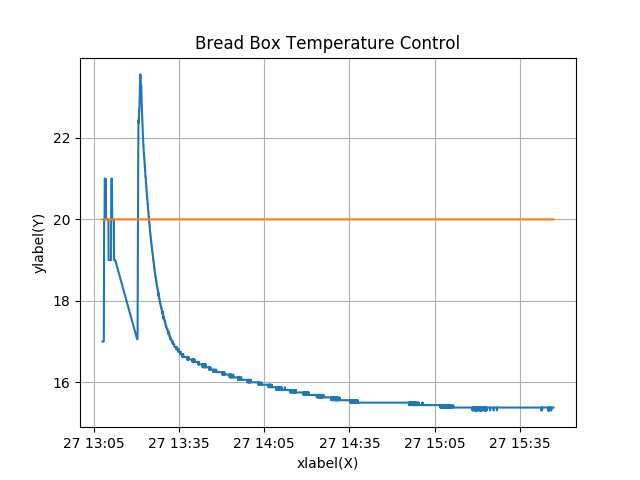
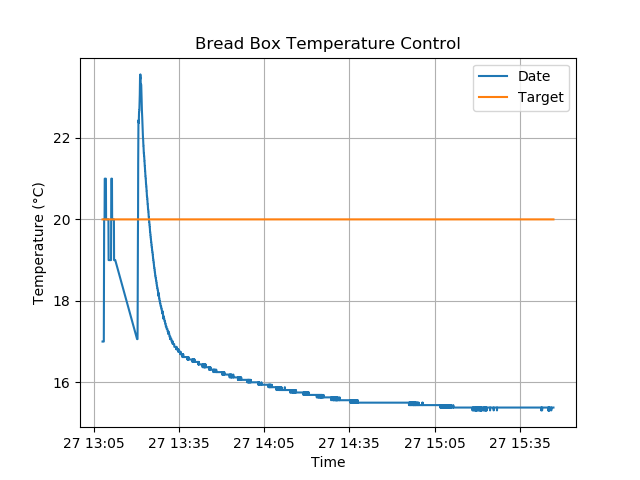
Making site prettier with some css

diff --git a/home/templates/home/index.html b/home/templates/home/index.html
@@ -1,22 +1,37 @@
+{% load staticfiles %}
 <!DOCTYPE html>
 <html lang="en">
-<head>
-    <meta charset="UTF-8">
-    <title>Breadsite</title>
-</head>
-<body>
-<heading>Breadsite</heading>
-{% load static %}
-<img src="{% static "home/graph.png" %}" alt="My image"/>
-<p>Recent blogs:</p>
-{% if latest_blogs_list %}
-    <ul>
-    {% for blog in latest_blogs_list %}
-        <li><a href="/blogs/{{ blog.id }}/">{{ blog.title }}</a></li>
-    {% endfor %}
-    </ul>
-{% else %}
-    <p>No blogs are available.</p>
-{% endif %}
-</body>
+    <head>
+        <title>Breadsite</title>
+        <link rel="stylesheet" href="//maxcdn.bootstrapcdn.com/bootstrap/3.2.0/css/bootstrap.min.css">
+        <link rel="stylesheet" href="//maxcdn.bootstrapcdn.com/bootstrap/3.2.0/css/bootstrap-theme.min.css">
+        <link href="//fonts.googleapis.com/css?family=Lobster&subset=latin,latin-ext" rel="stylesheet" type="text/css">
+        <link rel="stylesheet" href="{% static 'css/home.css' %}">
+        <meta charset="UTF-8">
+    </head>
+    <body>
+        <div class="page-header">
+            <h1><a href="/home/">Breadsite</a></h1>
+        </div>
+        <div class="content container">
+            {% load static %}
+            <img src="{% static "home/graph.png" %}" alt="My image"/>
+            <div class="row">
+                <div class="col-md-8">
+                    <div class="post">
+                        <h1>Recent blogs:</h1>
+                        {% if latest_blogs_list %}
+                            <ul>
+                            {% for blog in latest_blogs_list %}
+                                <li><a href="/blogs/{{ blog.id }}/">{{ blog.title }}</a></li>
+                            {% endfor %}
+                            </ul>
+                        {% else %}
+                            <p>No blogs are available.</p>
+                        {% endif %}
+                    </div>
+                </div>
+            </div>
+        </div>
+    </body>
 </html>

diff --git a/blogs/templates/blogs/detail.html b/blogs/templates/blogs/detail.html
@@ -1,16 +1,32 @@
+{% load staticfiles %}
 <!DOCTYPE html>
 <html lang="en">
-<head>
-    <meta charset="UTF-8">
-    <title>Breadsite</title>
-</head>
-<body>
-<heading><a href="/home/">Blog Home</a></heading>
-{% if blog %}
-    <p>{{ blog.content }}</p>
-    <p>{{ blog.author }}</p>
-{% else %}
-    <p>No blogs are available.</p>
-{% endif %}
-</body>
+    <head>
+        <title>Breadsite</title>
+        <link rel="stylesheet" href="//maxcdn.bootstrapcdn.com/bootstrap/3.2.0/css/bootstrap.min.css">
+        <link rel="stylesheet" href="//maxcdn.bootstrapcdn.com/bootstrap/3.2.0/css/bootstrap-theme.min.css">
+        <link href="//fonts.googleapis.com/css?family=Lobster&subset=latin,latin-ext" rel="stylesheet" type="text/css">
+        <link rel="stylesheet" href="{% static 'css/blogs.css' %}">
+        <meta charset="UTF-8">
+    </head>
+    <body>
+        <div class="page-header">
+            <h1><a href="/home/">Breadsite</a></h1>
+        </div>
+        <div class="content container">
+            <div class="row">
+                <div class="col-md-8">
+                    <div class="post">
+                        {% if blog %}
+                            <h1>{{ blog.title }}</h1>
+                            <p>Author: {{ blog.author }}</p>
+                            <p>{{ blog.content }}</p>
+                        {% else %}
+                            <p>No blogs are available.</p>
+                        {% endif %}
+                    </div>
+                </div>
+            </div>
+        </div>
+    </body>
 </html>

diff --git a/blogs/static/css/blogs.css b/blogs/static/css/blogs.css
@@ -1,0 +1,50 @@
+.page-header {
+    background-color: #ff9400;
+    margin-top: 0;
+    padding: 20px 20px 20px 40px;
+}
+
+.page-header h1, .page-header h1 a, .page-header h1 a:visited, .page-header h1 a:active {
+    color: #ffffff;
+    font-size: 36pt;
+    text-decoration: none;
+}
+
+.content {
+    margin-left: 40px;
+}
+
+h1, h2, h3, h4 {
+    font-family: 'Lobster', cursive;
+}
+
+.date {
+    color: #828282;
+}
+
+.save {
+    float: right;
+}
+
+.post-form textarea, .post-form input {
+    width: 100%;
+}
+
+.top-menu, .top-menu:hover, .top-menu:visited {
+    color: #ffffff;
+    float: right;
+    font-size: 26pt;
+    margin-right: 20px;
+}
+
+.post {
+    margin-bottom: 70px;
+}
+
+.post h1 a, .post h1 a:visited {
+    color: #000000;
+}
+
+body {
+    padding-left: 15px;
+}

diff --git a/home/static/css/home.css b/home/static/css/home.css
@@ -1,0 +1,50 @@
+.page-header {
+    background-color: #ff9400;
+    margin-top: 0;
+    padding: 20px 20px 20px 40px;
+}
+
+.page-header h1, .page-header h1 a, .page-header h1 a:visited, .page-header h1 a:active {
+    color: #ffffff;
+    font-size: 36pt;
+    text-decoration: none;
+}
+
+.content {
+    margin-left: 40px;
+}
+
+h1, h2, h3, h4 {
+    font-family: 'Lobster', cursive;
+}
+
+.date {
+    color: #828282;
+}
+
+.save {
+    float: right;
+}
+
+.post-form textarea, .post-form input {
+    width: 100%;
+}
+
+.top-menu, .top-menu:hover, .top-menu:visited {
+    color: #ffffff;
+    float: right;
+    font-size: 26pt;
+    margin-right: 20px;
+}
+
+.post {
+    margin-bottom: 70px;
+}
+
+.post h1 a, .post h1 a:visited {
+    color: #000000;
+}
+
+body {
+    padding-left: 15px;
+}

diff --git a/home/views.py b/home/views.py
@@ -22,10 +22,12 @@ def getImage(request):
         x.append(temp.rec_date)
         s.append(temp.temp)
         target.append(20.0)
-    plot(x, s, x, target)
+    date_line, = plot(x, s)
+    target_line, = plot(x, target)
 
-    xlabel('xlabel(X)')
-    ylabel('ylabel(Y)')
+    xlabel('Time')
+    ylabel('Temperature (°C)')
+    legend([date_line, target_line], ["Data", "Target"])
     title('Bread Box Temperature Control')
     grid(True)
 

diff --git a/breadsite/settings.py b/breadsite/settings.py
@@ -27,7 +27,7 @@ SECRET_KEY = 'd%h=cxkks5mn$cwzvbt47lfvz)p)w+a^49f)gu3tl26s7^snko'
 # SECURITY WARNING: don't run with debug turned on in production!
 DEBUG = True
 
-ALLOWED_HOSTS = ['192.168.1.69']
+ALLOWED_HOSTS = ['192.168.1.69', 'localhost']
 
 # Application definition
 
